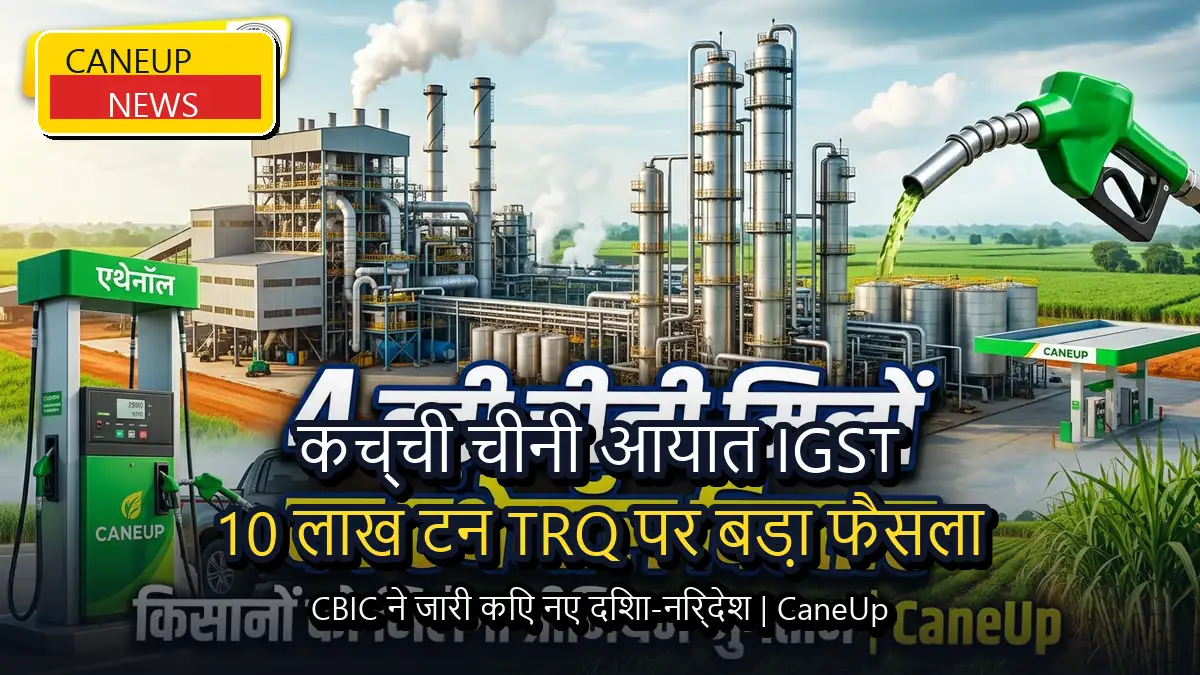
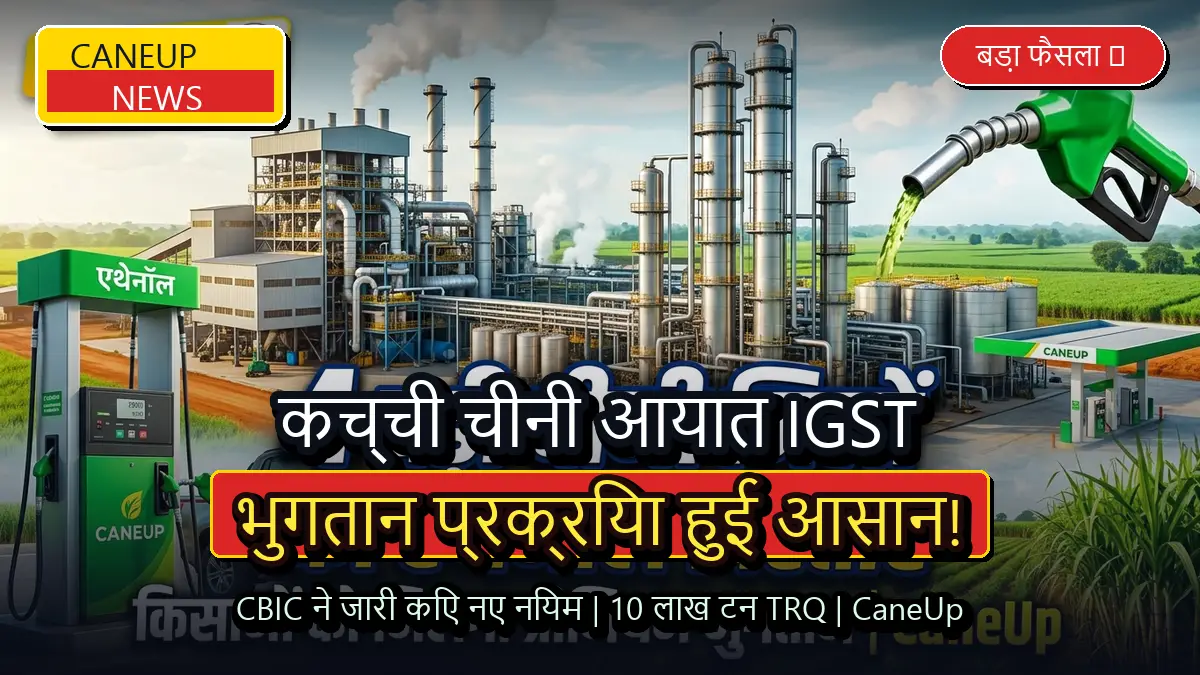
style: polish CBIC raw sugar import featured image to ultimate high-CTR Discover click-magnet design
- Added red ribbon plate with bright golden text 'भुगतान प्रक्रिया हुई आसान!'
- Added top-right 'बड़ा फैसला ⚡' badge and top-left 'CANEUP NEWS' yellow badge
- 1200x675 WebP optimized at 95.9KB for maximum Google Discover CTR

diff --git a/scripts/make-ultimate-cbic-banner.py b/scripts/make-ultimate-cbic-banner.py
@@ -1,0 +1,145 @@
+import os
+import sys
+from PIL import Image, ImageDraw, ImageFont, ImageFilter
+
+if sys.platform == "win32":
+    try:
+        sys.stdout.reconfigure(encoding='utf-8')
+    except Exception:
+        pass
+
+base_dir = r'c:\Users\caneu\Downloads\caneup-xyz-restore'
+out_path = os.path.join(base_dir, 'static', 'images', 'news', 'raw-sugar-import-igst-cbic-new-guidelines-2026.webp')
+
+# Base image candidate
+bg_path = os.path.join(r'C:\Users\caneu\.gemini\antigravity\brain\f0566670-25ee-4739-bb10-e53286d68160', 'news9_ethanol_expansion_cover_1787948284345.jpg')
+if not os.path.exists(bg_path):
+    bg_path = os.path.join(base_dir, 'static', 'images', 'news', 'chini-import-10-lmt-2026.webp')
+
+with Image.open(bg_path) as img:
+    img = img.convert('RGB')
+    target_w, target_h = 1200, 675
+    src_w, src_h = img.size
+    target_ratio = target_w / target_h
+    src_ratio = src_w / src_h
+    
+    if src_ratio > target_ratio:
+        new_w = int(src_h * target_ratio)
+        left = (src_w - new_w) // 2
+        img = img.crop((left, 0, left + new_w, src_h))
+    else:
+        new_h = int(src_w / target_ratio)
+        top = (src_h - new_h) // 2
+        img = img.crop((0, top, src_w, top + new_h))
+        
+    img = img.resize((target_w, target_h), Image.Resampling.LANCZOS)
+    
+    # Layer 1: Enhanced Vignette & Bottom Dark Plate for dramatic contrast
+    overlay = Image.new('RGBA', (1200, 675), (0, 0, 0, 0))
+    ov_draw = ImageDraw.Draw(overlay)
+    
+    # Smooth rich gradient from y=300 to 675
+    for y in range(280, 675):
+        alpha = int(245 * ((y - 280) / 395.0) ** 1.2)
+        ov_draw.line([(0, y), (1200, y)], fill=(8, 12, 22, alpha))
+        
+    # Top subtle dark gradient so top badges pop
+    for y in range(0, 140):
+        alpha = int(140 * ((140 - y) / 140.0))
+        ov_draw.line([(0, y), (1200, y)], fill=(0, 0, 0, alpha))
+        
+    img = Image.alpha_composite(img.convert('RGBA'), overlay).convert('RGB')
+    draw = ImageDraw.Draw(img)
+    
+    # Fonts
+    font_path = r'C:\Windows\Fonts\Nirmala.ttc'
+    if not os.path.exists(font_path):
+        font_path = r'C:\Windows\Fonts\arialbd.ttf'
+        
+    try:
+        font_badge_main = ImageFont.truetype(font_path, 34, index=0)
+        font_badge_sub = ImageFont.truetype(font_path, 22, index=0)
+        font_stamp = ImageFont.truetype(font_path, 28, index=0)
+        font_line1 = ImageFont.truetype(font_path, 66, index=0)
+        font_line2 = ImageFont.truetype(font_path, 64, index=0)
+        font_sub = ImageFont.truetype(font_path, 32, index=0)
+    except Exception:
+        font_badge_main = ImageFont.truetype(font_path, 34)
+        font_badge_sub = ImageFont.truetype(font_path, 22)
+        font_stamp = ImageFont.truetype(font_path, 28)
+        font_line1 = ImageFont.truetype(font_path, 66)
+        font_line2 = ImageFont.truetype(font_path, 64)
+        font_sub = ImageFont.truetype(font_path, 32)
+        
+    # 1. Top-Left Iconic Yellow Shield/Badge (CANEUP NEWS)
+    bx, by = 35, 25
+    bw, bh = 250, 100
+    # Shadow
+    draw.rounded_rectangle([bx + 5, by + 5, bx + bw + 5, by + bh + 5], radius=14, fill=(0, 0, 0))
+    # Yellow body
+    draw.rounded_rectangle([bx, by, bx + bw, by + bh], radius=14, fill=(255, 215, 0), outline=(255, 255, 255), width=3)
+    # Red stripe inside
+    draw.rectangle([bx + 12, by + 45, bx + bw - 12, by + 86], fill=(220, 38, 38))
+    # Text
+    draw.text((bx + 35, by + 6), "CANEUP", font=font_badge_main, fill=(15, 23, 42))
+    draw.text((bx + 76, by + 48), "NEWS", font=font_badge_main, fill=(255, 255, 255))
+    
+    # 2. Top-Right High-CTR Stamp (बड़ा फैसला)
+    sx, sy = 940, 25
+    sw, sh = 225, 60
+    draw.rounded_rectangle([sx + 4, sy + 4, sx + sw + 4, sy + sh + 4], radius=30, fill=(0, 0, 0))
+    draw.rounded_rectangle([sx, sy, sx + sw, sy + sh], radius=30, fill=(220, 38, 38), outline=(255, 255, 255), width=2)
+    draw.text((sx + 36, sy + 10), "बड़ा फैसला ⚡", font=font_stamp, fill=(255, 255, 255))
+    
+    # Helper to draw 3D text with thick multi-pass outline & shadow
+    def draw_ultra_3d(xy, text, font, fill_color, stroke_color=(10, 15, 25), stroke_width=8, shadow_offset=(5, 6)):
+        x, y = xy
+        # Deep drop shadow
+        draw.text((x + shadow_offset[0], y + shadow_offset[1]), text, font=font, fill=(0, 0, 0), stroke_width=stroke_width + 4, stroke_fill=(0, 0, 0))
+        # Stroke & fill
+        draw.text((x, y), text, font=font, fill=fill_color, stroke_width=stroke_width, stroke_fill=stroke_color)
+
+    # 3. Line 1: Ultra Large 3D White Text (कच्ची चीनी आयात IGST)
+    text1 = "कच्ची चीनी आयात IGST"
+    bbox1 = font_line1.getbbox(text1)
+    t1_w = bbox1[2] - bbox1[0]
+    x1 = (1200 - t1_w) // 2
+    y1 = 375
+    draw_ultra_3d((x1, y1), text1, font_line1, fill_color=(255, 255, 255), stroke_color=(10, 15, 25), stroke_width=8, shadow_offset=(6, 7))
+    
+    # 4. Line 2: Red Ribbon Plate with Huge Golden Text (भुगतान प्रक्रिया हुई आसान!)
+    text2 = "भुगतान प्रक्रिया हुई आसान!"
+    bbox2 = font_line2.getbbox(text2)
+    t2_w = bbox2[2] - bbox2[0]
+    x2 = (1200 - t2_w) // 2
+    y2 = 475
+    
+    # Red ribbon plate behind Line 2
+    rx1 = x2 - 25
+    ry1 = y2 - 5
+    rx2 = x2 + t2_w + 25
+    ry2 = y2 + 82
+    draw.rounded_rectangle([rx1 + 4, ry1 + 4, rx2 + 4, ry2 + 4], radius=10, fill=(0, 0, 0))
+    draw.rounded_rectangle([rx1, ry1, rx2, ry2], radius=10, fill=(220, 38, 38), outline=(255, 215, 0), width=3)
+    
+    # Draw Line 2 text in bright gold/yellow
+    draw_ultra_3d((x2, y2), text2, font_line2, fill_color=(255, 235, 59), stroke_color=(30, 10, 10), stroke_width=6, shadow_offset=(4, 5))
+    
+    # 5. Line 3: Bottom Subtext Ribbon (CBIC ने जारी किए नए नियम | 10 लाख टन TRQ)
+    text3 = "CBIC ने जारी किए नए नियम | 10 लाख टन TRQ | CaneUp"
+    bbox3 = font_sub.getbbox(text3)
+    t3_w = bbox3[2] - bbox3[0]
+    x3 = (1200 - t3_w) // 2
+    y3 = 585
+    draw_ultra_3d((x3, y3), text3, font_sub, fill_color=(220, 252, 231), stroke_color=(0, 0, 0), stroke_width=5, shadow_offset=(3, 4))
+    
+    # Save optimized WebP under 100KB
+    quality = 85
+    img.save(out_path, 'WEBP', quality=quality, optimize=True)
+    kb = os.path.getsize(out_path) / 1024.0
+    while kb > 98.0 and quality > 35:
+        quality -= 5
+        img.save(out_path, 'WEBP', quality=quality, optimize=True)
+        kb = os.path.getsize(out_path) / 1024.0
+
+print(f"Successfully generated High-CTR Discover Banner: {out_path} | {kb:.1f} KB")
